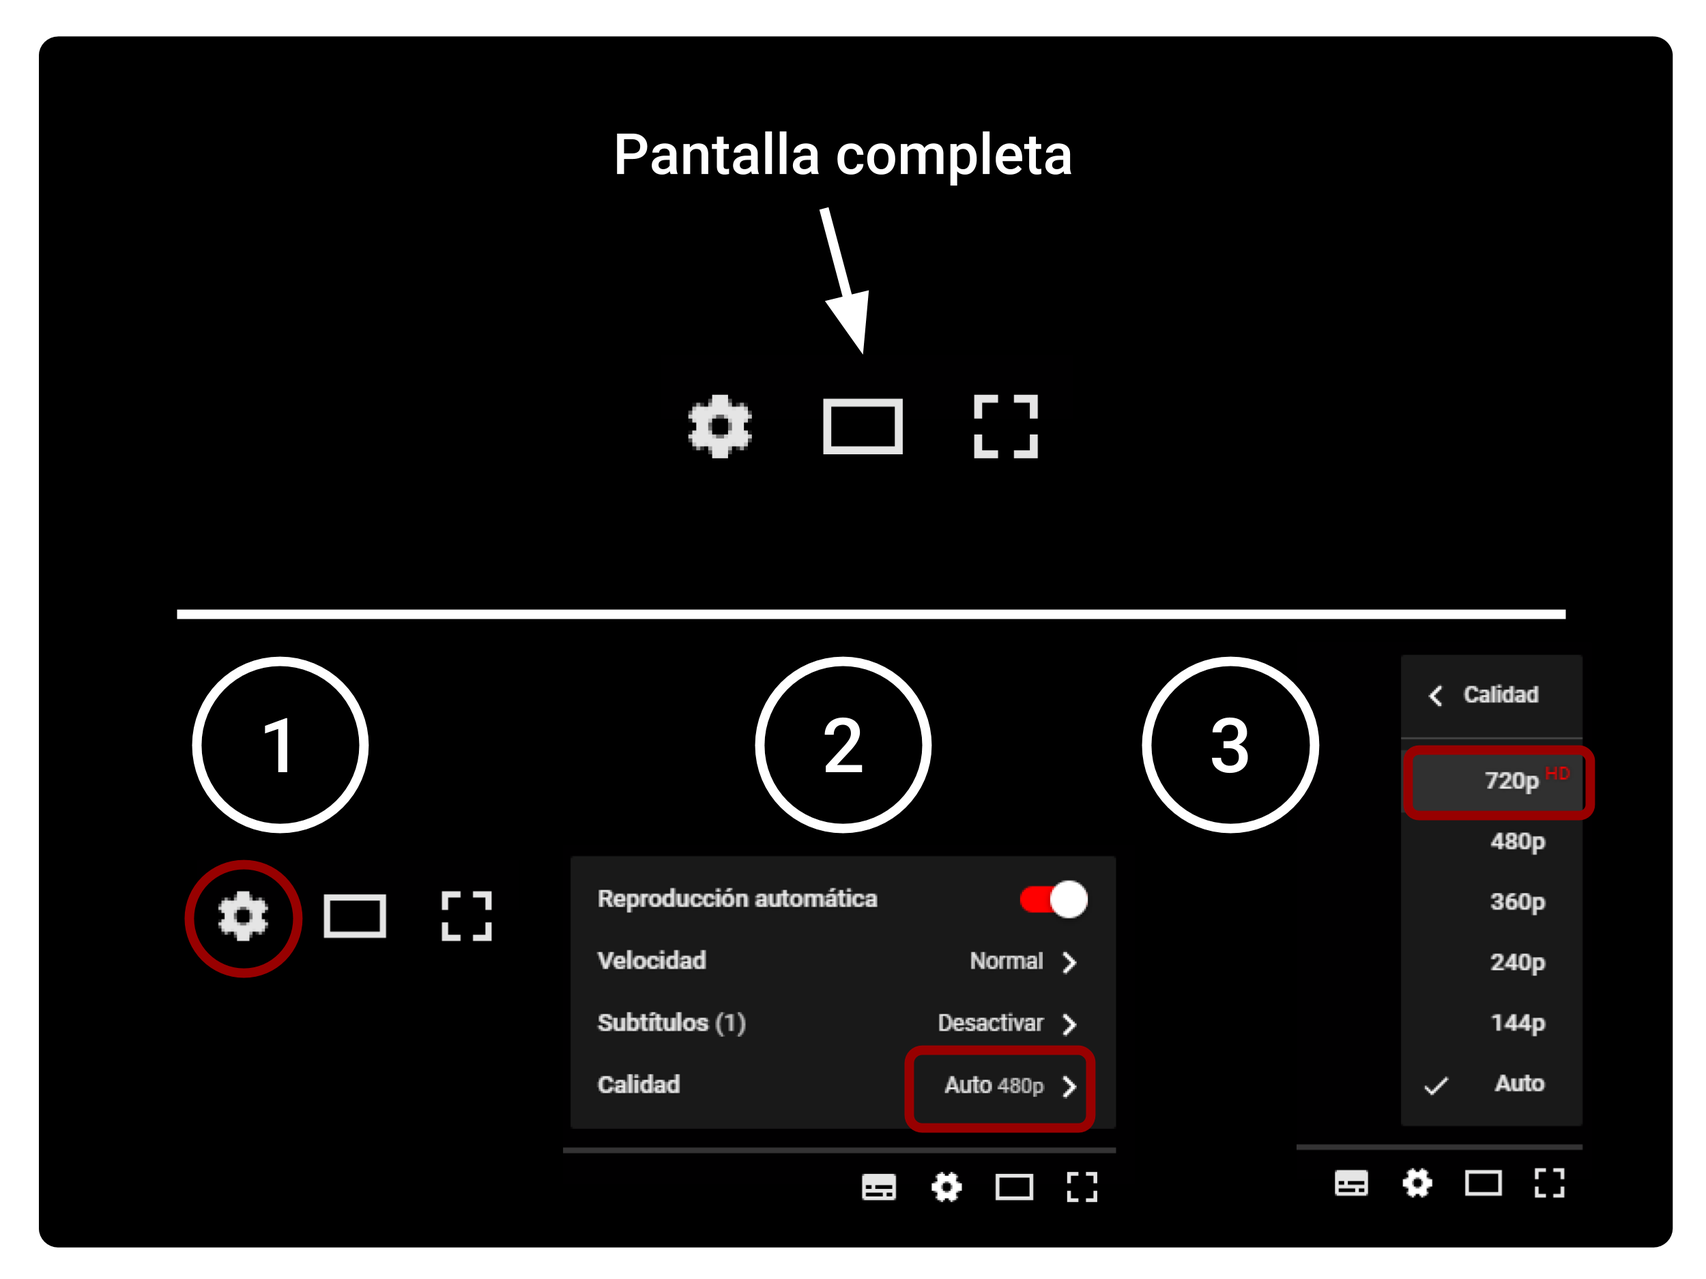
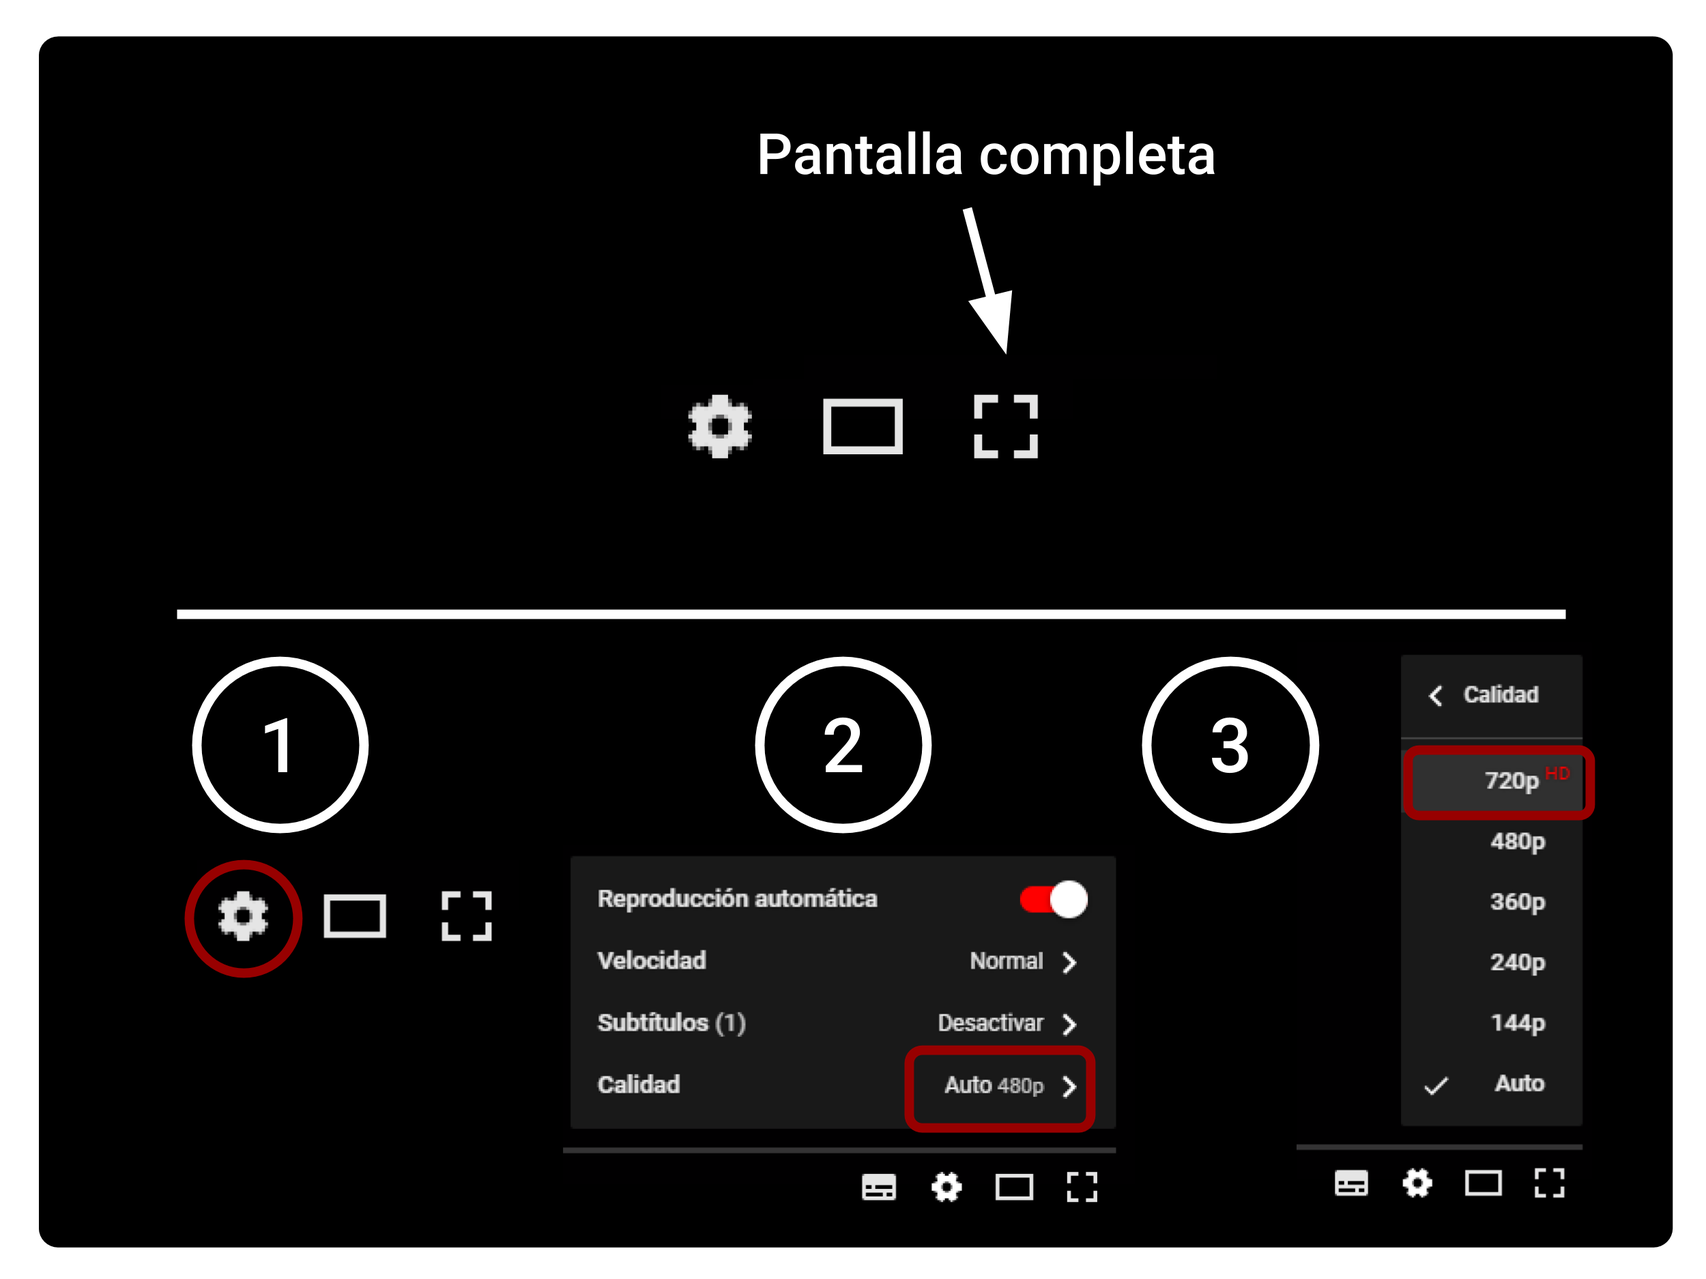
Add files via Atom

Changed region(s): [[0.3432, 0.0928, 0.7176, 0.2784]]

diff --git a/blog/21052018-1.html b/blog/21052018-1.html
@@ -1,0 +1,180 @@
+<!DOCTYPE html>
+<html lang="en">
+
+  <head>
+
+    <meta charset="utf-8">
+    <meta name="viewport" content="width=device-width, initial-scale=1, shrink-to-fit=no">
+    <meta name="description" content="Estudio jurídico, impositivo y contable">
+    <meta name="author" content="Estudio Diez">
+
+    <link rel="icon"
+      type="../image/png"
+      href="../images/favicon-32x32.png">
+
+      <link href="https://fonts.googleapis.com/css?family=Roboto+Slab" rel="stylesheet">
+
+      <style>
+      .h1-a {
+        font-family: 'Roboto Slab', serif;
+        font-size: 40px;
+      }
+    </style>
+
+    <link href="https://fonts.googleapis.com/css?family=Open+Sans+Condensed:300" rel="stylesheet">
+
+    <style>
+    .h2-a {
+      font-family: 'Open Sans Condensed', sans-serif;
+      font-size: 30px;
+    }
+  </style>
+
+  <link href="https://fonts.googleapis.com/css?family=Roboto:300,400,500" rel="stylesheet">
+
+  <style>
+  .h3-a {
+    font-family: 'Roboto', sans-serif;
+    font-size: 15px;
+  }
+  .h4-a {
+    font-family: 'Roboto', sans-serif;
+    font-size: 20px;
+  }
+</style>
+
+
+    <title>Estudio Diez - blog</title>
+
+    <!-- Bootstrap core CSS -->
+    <link href="../vendor/bootstrap/css/bootstrap.min.css" rel="stylesheet">
+
+    <!-- Custom styles for this template -->
+    <link href="../css/modern-business.css" rel="stylesheet">
+
+    <!-- font-awesome
+    <link href="../font-awesome/css/font-awesome.min.css" rel="stylesheet"> -->
+
+    <script defer src="https://use.fontawesome.com/releases/v5.0.6/js/all.js"></script>
+
+</head>
+
+  <body>
+
+    <nav class="navbar fixed-top navbar-expand-lg navbar-light fixed-top" style="background-color: #fff">
+      <div class="container">
+<a href="../blog.html"><button type="button" class="btn btn-outline-success">Volver al blog</button></a>
+      </div>
+    </nav>
+
+    <!-- Page Content -->
+    <div class="container">
+      <br><br>
+            <div class="row">
+            <div class="col-lg-12">
+              <nav aria-label="breadcrumb">
+                <ol class="breadcrumb bg-secondary">
+                  <li class="breadcrumb-item active h4-a text-white" aria-current="page"><i class="fas fa-graduation-cap text-white" aria-hidden="true"></i>&nbsp;Estudio Diez</li>
+                </ol>
+              </nav>
+              <div><h3 class="h1-a display-4 text-info">Ciclo de Actualización Tributaria 2018
+                 <small><p class="h1-a text-info">Streaming | reunión personas humanas</p></small>
+              </h3>
+              </div>
+            </div>
+            </div> <!-- row -->
+              <hr>
+              <div class="row col-lg-12">
+              <div class="alert alert-info col-lg-8" role="alert">
+                <h1 class="display-4">Ciclo streaming</h1>
+              </div>
+              <div class="card border-info bg-info" style="width: 68rem;">
+                <div class="card-header text-light">
+                  A tener en cuenta
+                </div>
+                <ul class="list-group list-group-flush text-justify">
+                  <li class="list-group-item">La transmisión se realizará desde el lunes 21/mayo/2018 al miércoles 23/mayo/2018 en forma ininterrumpida y se podrá visualizar la cantidad de veces que se desee.</li>
+                  <li class="list-group-item">El día jueves 24/mayo/2018 se habilitará un formulario para consultas.</li>
+                  <li class="list-group-item">El acceso será siempre a través de la página web en la sección <a class="card-link" href="http://www.estudiodiez.com/suscriptores.html">Suscriptores</a> opción <b class="lead text-info">Ciclo de Actualización Tributaria streaming - Acceso</b></li>
+                  <li class="list-group-item">Nuestros videos están grabados en HD. Recuerde que también puede verlos a pantalla completa
+                    <br>
+                    <img src="bimages\youtube.png" class="rounded" width="60%" /></b></li>
+                  <li class="list-group-item">Más información en el siguiente instructivo...
+                    <hr>
+                    <div id="accordion">
+                      <div class="card bg-info">
+                        <div class="card-header" id="headingOne">
+                          <h5 class="mb-0">
+                            <button class="btn text-light btn-link collapsed card-link" data-toggle="collapse" data-target="#collapseOne" aria-expanded="true" aria-controls="collapseOne">
+                              Instructivo Ciclo de Actualización Tributaria 2018 - streaming
+                            </button>
+                          </h5>
+                        </div>
+                      </div>
+                      <div id="collapseOne" class="collapse" aria-labelledby="headingOne" data-parent="#accordion">
+                        <div class="card-body">
+                          <div class="embed-responsive embed-responsive-16by9">
+                            <iframe class="embed-responsive-item" src="https://docs.google.com/document/d/e/2PACX-1vSgT8wnSXSxr5Upj677p8PtinUZqAE5xXFnPNun_n9x875aiwa_4AUKapHj-B0u6Tue-Xq6CAnqo_di/pub?embedded=true"></iframe>
+                          </div>
+                        </div>
+                      </div>
+                      </div>
+                  </li>
+                </ul>
+              </div>
+            </div>
+    </div> <!-- /.container -->
+    <hr>
+
+    <!-- Footer -->
+    <footer class="py-5 bg-dark">
+      <div class="container">
+        <div class="row">
+          <div class="col-lg-3 mb-4">
+            <div class="list-group" id="list-tab" role="tablist">
+              <a class="list-group-item list-group-item-info active text-light" role="tab">Estudio</a>
+              <a class="list-group-item list-group-item-action" href="perfil.html" role="tab">Perfil</a>
+              <a class="list-group-item list-group-item-action" href="organizacion.html" role="tab">Organización</a>
+              <a class="list-group-item list-group-item-action" href="socios.html" role="tab">Socios</a>
+              <a class="list-group-item list-group-item-action" href="publicaciones.html" role="tab">Publicaciones</a>
+            </div>
+          </div>
+        <div class="col-lg-3 mb-4">
+          <div class="list-group" id="list-tab" role="tablist">
+            <a class="list-group-item list-group-item-secondary active text-light" role="tab">Servicios</a>
+            <a class="list-group-item list-group-item-action" href="impositivo.html" role="tab">Impositivos</a>
+            <a class="list-group-item list-group-item-action" href="contable.html" role="tab">Contable</a>
+            <a class="list-group-item list-group-item-action" href="juridico.html" role="tab">Jurídicos</a>
+          </div>
+        </div>
+        <div class="col-lg-3 mb-4">
+          <div class="list-group" id="list-tab" role="tablist">
+            <a class="list-group-item list-group-item-success active text-light" role="tab">Capacitación</a>
+            <a class="list-group-item list-group-item-action" href="eventos.html" role="tab">Eventos</a>
+            <a class="list-group-item list-group-item-action" href="suscriptores.html" role="tab">Suscriptores</a>
+          </div>
+        </div>
+        <div class="col-lg-3 mb-4">
+          <div class="list-group" id="list-tab" role="tablist">
+            <a class="list-group-item list-group-item-warning active text-light" role="tab">Conecta</a>
+            <a class="list-group-item list-group-item-action" href="contact.html" role="tab">Contacto</a>
+            <a class="list-group-item list-group-item-action" href="sitios-de-interes.html" role="tab">Link's de interés</a>
+            <a class="list-group-item list-group-item-action" href="https://www.facebook.com/diezestudio" target="_blank" role="tab">Facebook</a>
+            <a class="list-group-item list-group-item-action" href="https://www.youtube.com/channel/UC1Rg9E5c1hEgTlysuGBRy6A" target="_blank" role="tab">Youtube</a>
+            <a class="list-group-item list-group-item-action" href="https://twitter.com/diez_estudio" target="_blank" role="tab">Twitter</a>
+          </div>
+        </div>
+        </div>
+          <hr style="background-color: white">
+          <p class="m-0 text-right text-secondary">Copyright &copy; 2018. Estudio Diez - Consultores Impositivos. Buenos Aires. Argentina</p>
+      </div>
+      <!-- /.container -->
+    </footer>
+
+    <!-- Bootstrap core JavaScript -->
+    <script src="../vendor/jquery/jquery.min.js"></script>
+    <script src="../vendor/bootstrap/js/bootstrap.bundle.min.js"></script>
+
+  </body>
+
+</html>

diff --git a/suscriptores-streaming.html b/suscriptores-streaming.html
@@ -144,6 +144,7 @@ firebase.auth().signOut();
               </h6>
             </div>
             <p></p>
+            <!-- INICIO PRÓXIMA REUNIÓN
             <div id="collapseOne" class="collapse" aria-labelledby="headingOne" data-parent="#accordion">
             <div class="alert alert-danger col-lg-12" role="alert">
               <h4 class="alert-heading"><b>Próxima transmisión</b> - Reunión del 18/05/2018 - Personas Humanas</h4>
@@ -151,7 +152,17 @@ firebase.auth().signOut();
               <hr>
               <p class="mb-0 alert-danger">Departamento de Capacitación</p>
             </div>
-            <!-- <div class="alert alert-secondary col-lg-12" role="alert">
+            FIN PRÓXIMA REUNIÓN -->
+
+            <!-- INICIO TRANSMISIÓN -->
+            <div id="collapseOne" class="collapse" aria-labelledby="headingOne" data-parent="#accordion">
+            <div class="alert alert-success col-lg-12" role="alert">
+              <h4 class="alert-heading"><b>Transmisión</b> - Reunión del 18/05/2018 - Personas Humanas</h4>
+              <p class="alert-success">Transmisión desde el lunes/21/mayo al miércoles/23/mayo</p>
+              <hr>
+              <p class="mb-0 alert-success">Departamento de Capacitación</p>
+            </div>
+             <div class="alert alert-secondary col-lg-12" role="alert">
               <h4 class="alert-heading">Consideraciones</h4>
               <p class="alert-secondary">Nuestros videos están grabados en HD. Recuerde que también puede verlos a pantalla completa</p>
               <hr>
@@ -160,7 +171,7 @@ firebase.auth().signOut();
             <div class="card border-primary bg-primary text-white">
               <div class="card-header border-light text-white">Ciclo de Actualización Tributaria 2018</div>
                 <div class="card-body bg-light">
-                  <h3 class="card-title text-primary">2da. reunión | 1era. parte</h3><h6 class="text-danger"> </h6>
+                  <h3 class="card-title text-primary">Reunión Personas Humanas | 1era. parte</h3><h6 class="text-danger"> </h6>
                   <hr class="border-primary">
                   <div class="embed-responsive embed-responsive-16by9">
                   <iframe class="embed-responsive-item" width="460" height="315" src="https://www.youtube.com/embed/?vq=hd720&rel=0&controls=1&modestbranding=1" frameborder="0" allow="autoplay; encrypted-media" allowfullscreen></iframe>
@@ -172,21 +183,33 @@ firebase.auth().signOut();
           <div class="card border-primary bg-primary text-white">
             <div class="card-header border-light text-white">Ciclo de Actualización Tributaria 2018</div>
               <div class="card-body bg-light">
-                <h3 class="card-title text-primary">2da. reunión | 2da. parte</h3><h6 class="text-danger"> </h6>
+                <h3 class="card-title text-primary">Reunión Personas Humanas | 2da. parte</h3><h6 class="text-danger"> </h6>
                 <hr class="border-primary">
                 <div class="embed-responsive embed-responsive-16by9">
                 <iframe class="embed-responsive-item" width="460" height="315" src="https://www.youtube.com/embed/?vq=hd720&rel=0&controls=1&modestbranding=1" frameborder="0" allow="autoplay; encrypted-media" allowfullscreen></iframe>
                 </div>
               </div>
               <div class="card-footer border-light"></div>
-          </div> -->
-          <!-- <div class="alert alert-warning col-lg-12" role="alert">
+          </div>
+          <!-- FIN TRANSMISIÓN-->
+
+          <!-- INICIO CONSULTAS
+          <div id="collapseOne" class="collapse" aria-labelledby="headingOne" data-parent="#accordion">
+          <div class="alert alert-success col-lg-12" role="alert">
+            <h4 class="alert-heading"><b>Consultas</b> - Reunión del 18/05/2018 - Personas Humanas</h4>
+            <p class="alert-success">Período de consultas - jueves/24/mayo</p>
+            <hr>
+            <p class="mb-0 alert-success">Departamento de Capacitación</p>
+          </div>
+
+          <div class="alert alert-warning col-lg-12" role="alert">
             <h4 class="alert-heading">Formulario de consultas</h4>
             <hr>
             <div class="embed-responsive embed-responsive-16by9">
-              <iframe class="embed-responsive-item rounded" src="" width="800" height="1700"></iframe>
+              <iframe class="embed-responsive-item rounded" src="https://docs.google.com/forms/d/e/1FAIpQLSfaIzKKyowbzohegmtz-4xb9ijcrELZ9o9oAyOFZhsf2Dc6IA/viewform" width="800" height="1700"></iframe>
             </div>
-          </div> -->
+          </div>
+          FIN CONSULTAS -->
             </div>
           </div>
         </div> <!-- accordion -->
@@ -341,7 +364,7 @@ firebase.auth().signOut();
                         <p style="color: #9900ff">Créditos fiscales por bienes de uso. Devolución</p>
                         <p style="color: #9900ff">Venta de animales. Alícuota del 10,50%</p>
                       </div>
-                      <div class="card-footer border-light"><a href="https://goo.gl/Zw35p4" target="blank_" class="card-link text-white">Ver material</a> <small>actualizado #24-abr-2018</small></div>
+                      <div class="card-footer border-light"><a href="https://goo.gl/Zw35p4" target="blank_" class="card-link text-white">Ver material</a> <small>actualizado #21-may-2018</small></div>
                   </div>
                   <div class="card border-primary bg-primary text-white mb-3" style="max-width: 25rem;">
                     <div class="card-header border-light text-white">Ganancias</div>

diff --git a/blog.html b/blog.html
@@ -142,6 +142,87 @@
             <hr>
             <nav aria-label="breadcrumb">
             <ol class="breadcrumb">
+              <li class="breadcrumb-item active h4-a text-info" aria-current="page"><i class="fas fa-angle-double-right"></i>&nbsp;21/may [2018] may/24 <small>week</small></li>
+            </ol>
+          </nav>
+          <br>
+          <div class="row col-lg-12">
+            <div class="card-columns">
+              <div class="card bg-light" style="max-width: 30rem;">
+                <div class="card-body">
+                  <h4 class="h4-a text-info text-dark"><i class="fas fa-calendar text-dark" aria-hidden="true"></i>&nbsp;Esta semana...</h4>
+                  <hr>
+                  <table class="table table-active table-sm table-hover">
+                    <thead>
+                      <tr>
+                        <td class="text-center" scope="col">CUIT</th>
+                        <td class="text-center" scope="col">Impuesto</th>
+                        <td class="text-center" scope="col">Vencimiento</th>
+                      </tr>
+                    </thead>
+                    <tbody>
+                      <tr class="table-success text-center">
+                        <td scope="row">2 - 3</th>
+                        <td><small>IVA</small></td>
+                        <td><small>lun</small>/21-may</td>
+                      </tr>
+                      <tr class="table-warning text-center">
+                        <td scope="row">todos</th>
+                        <td><small>Monotributo</small></td>
+                        <td><small>lun</small>/21-may</td>
+                      </tr>
+                      <tr class="table-info text-center">
+                        <td scope="row">0 - 3</th>
+                        <td><small>SICORE 1º quincena</small></td>
+                        <td><small>lun</small>/21-may</td>
+                      </tr>
+                      <tr class="table-danger text-center">
+                        <td scope="row">4 - 5</th>
+                        <td><small>IVA</small></td>
+                        <td><small>mar</small>/22-may</td>
+                      </tr>
+                      <tr class="table-success text-center">
+                        <td scope="row">4 - 6</th>
+                        <td><small>SICORE 1º quincena</small></td>
+                        <td><small>mar</small>/22-may</td>
+                      </tr>
+                      <tr class="table-warning text-center">
+                        <td scope="row">6 - 7</th>
+                        <td><small>IVA</small></td>
+                        <td><small>mié</small>/23-may</td>
+                      </tr>
+                      <tr class="table-info text-center">
+                        <td scope="row">7 - 9</th>
+                        <td><small>SICORE 1º quincena</small></td>
+                        <td><small>mié</small>/23-may</td>
+                      </tr>
+                      <tr class="table-danger text-center">
+                        <td scope="row">8 - 9</th>
+                        <td><small>IVA</small></td>
+                        <td><small>jue</small>/24-may</td>
+                      </tr>
+                    </tbody>
+                  </table>
+                  <hr>
+                    <small class="text-dark h3-a">#21-may-18</small>
+                </div>
+              </div> <!-- tabla vencimientos -->
+              <div class="card bg-secondary" style="max-width: 30rem;">
+                <div class="card-body">
+                  <h4 class="h4-a text-white"><i class="fas fa-graduation-cap text-white" aria-hidden="true"></i>&nbsp;Estudio Diez</h4>
+                  <hr class="bg-light">
+                  <p class="h3-a text-justify text-white">Ciclo de Actualización Tributaria 2018<br><small>Streaming | reunión personas humanas</small></p>
+                  <a href="blog/21052018-1.html" class="h3-a btn btn-outline-light">Leer más...</a>
+                  <hr class="bg-light">
+                  <small class="text-white h3-a">#21-may-18</small>
+                </div>
+              </div>
+
+            </div>
+          </div>
+            <hr>
+            <nav aria-label="breadcrumb">
+            <ol class="breadcrumb">
               <li class="breadcrumb-item active h4-a text-info" aria-current="page"><i class="fas fa-angle-double-right"></i>&nbsp;14/may [2018] may/18 <small>week</small></li>
             </ol>
           </nav>

diff --git a/suscriptores-reforma-tributaria.html b/suscriptores-reforma-tributaria.html
@@ -269,7 +269,7 @@ firebase.auth().signOut();
                     <p style="color: #9900ff">Créditos fiscales por bienes de uso. Devolución</p>
                     <p style="color: #9900ff">Venta de animales. Alícuota del 10,50%</p>
                   </div>
-                  <div class="card-footer border-light"><a href="https://goo.gl/Zw35p4" target="blank_" class="card-link text-white">Ver material</a> <small>actualizado #24-abr-2018</small></div>
+                  <div class="card-footer border-light"><a href="https://goo.gl/Zw35p4" target="blank_" class="card-link text-white">Ver material</a> <small>actualizado #21-may-2018</small></div>
               </div>
               <div class="card border-primary bg-primary text-white mb-3" style="max-width: 25rem;">
                 <div class="card-header border-light text-white">Ganancias</div>

diff --git a/novedades.html b/novedades.html
@@ -269,7 +269,7 @@ firebase.auth().signOut();
                   <p style="color: #9900ff">Créditos fiscales por bienes de uso. Devolución</p>
                   <p style="color: #9900ff">Venta de animales. Alícuota del 10,50%</p>
                 </div>
-                <div class="card-footer border-light"><a href="https://goo.gl/Zw35p4" target="blank_" class="card-link text-white">Ver material</a> <small>actualizado #24-abr-2018</small></div>
+                <div class="card-footer border-light"><a href="https://goo.gl/Zw35p4" target="blank_" class="card-link text-white">Ver material</a> <small>actualizado #21-may-2018</small></div>
             </div>
             <div class="card border-primary bg-primary text-white mb-3" style="max-width: 25rem;">
               <div class="card-header border-light text-white">Ganancias</div>
